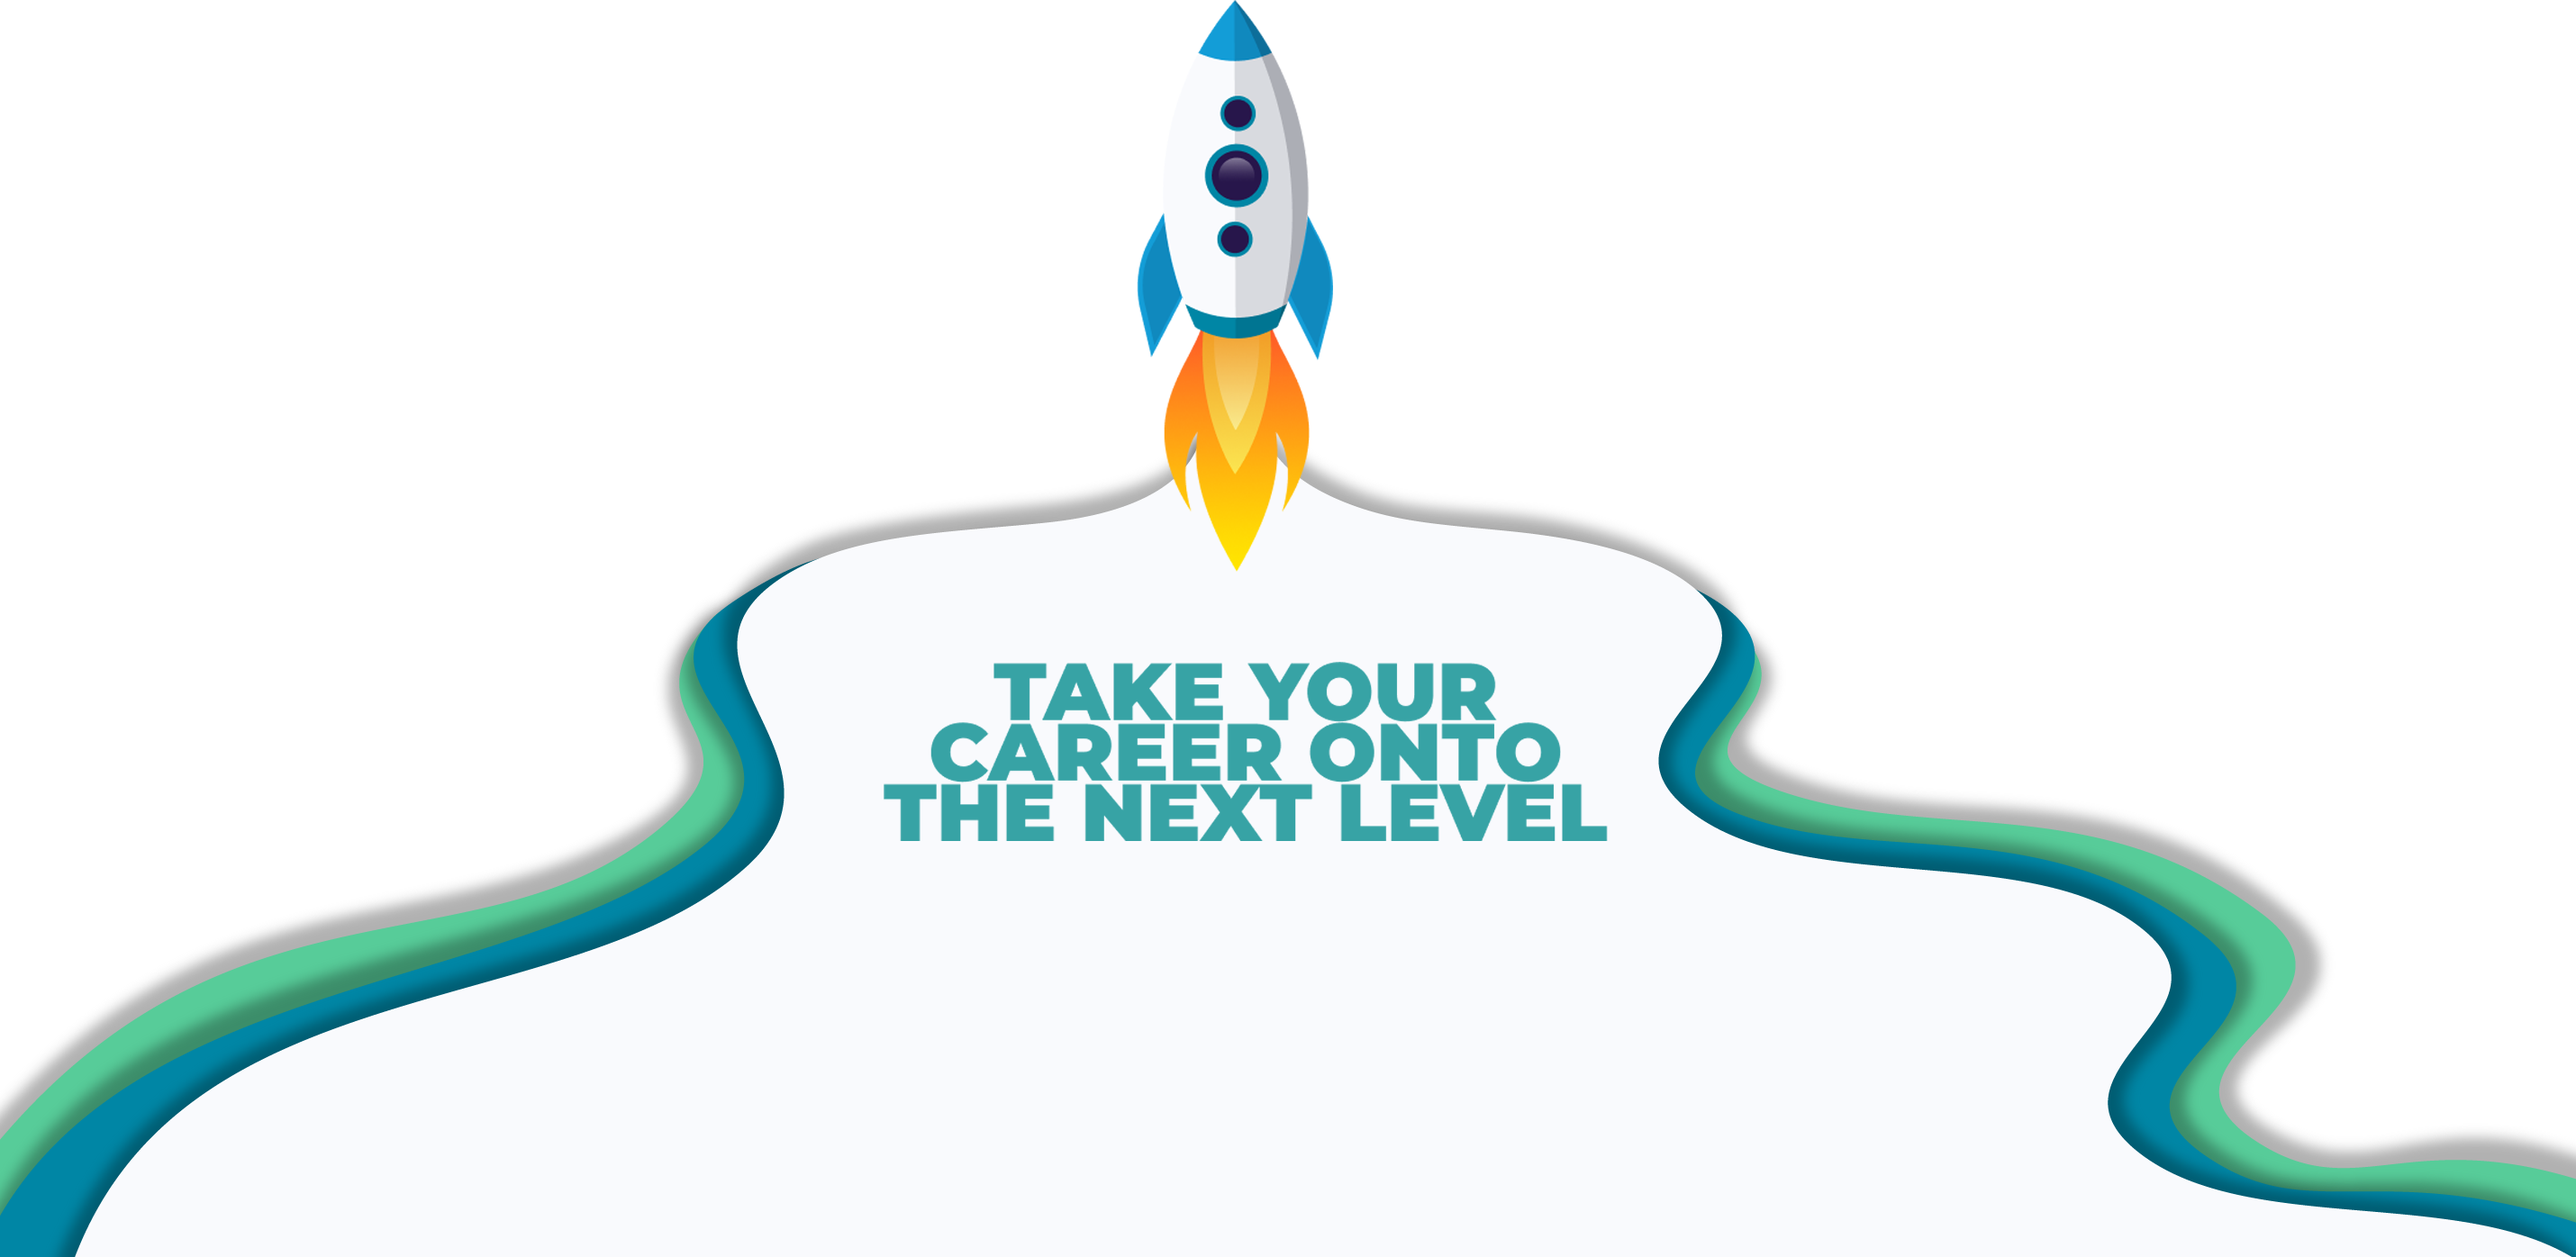
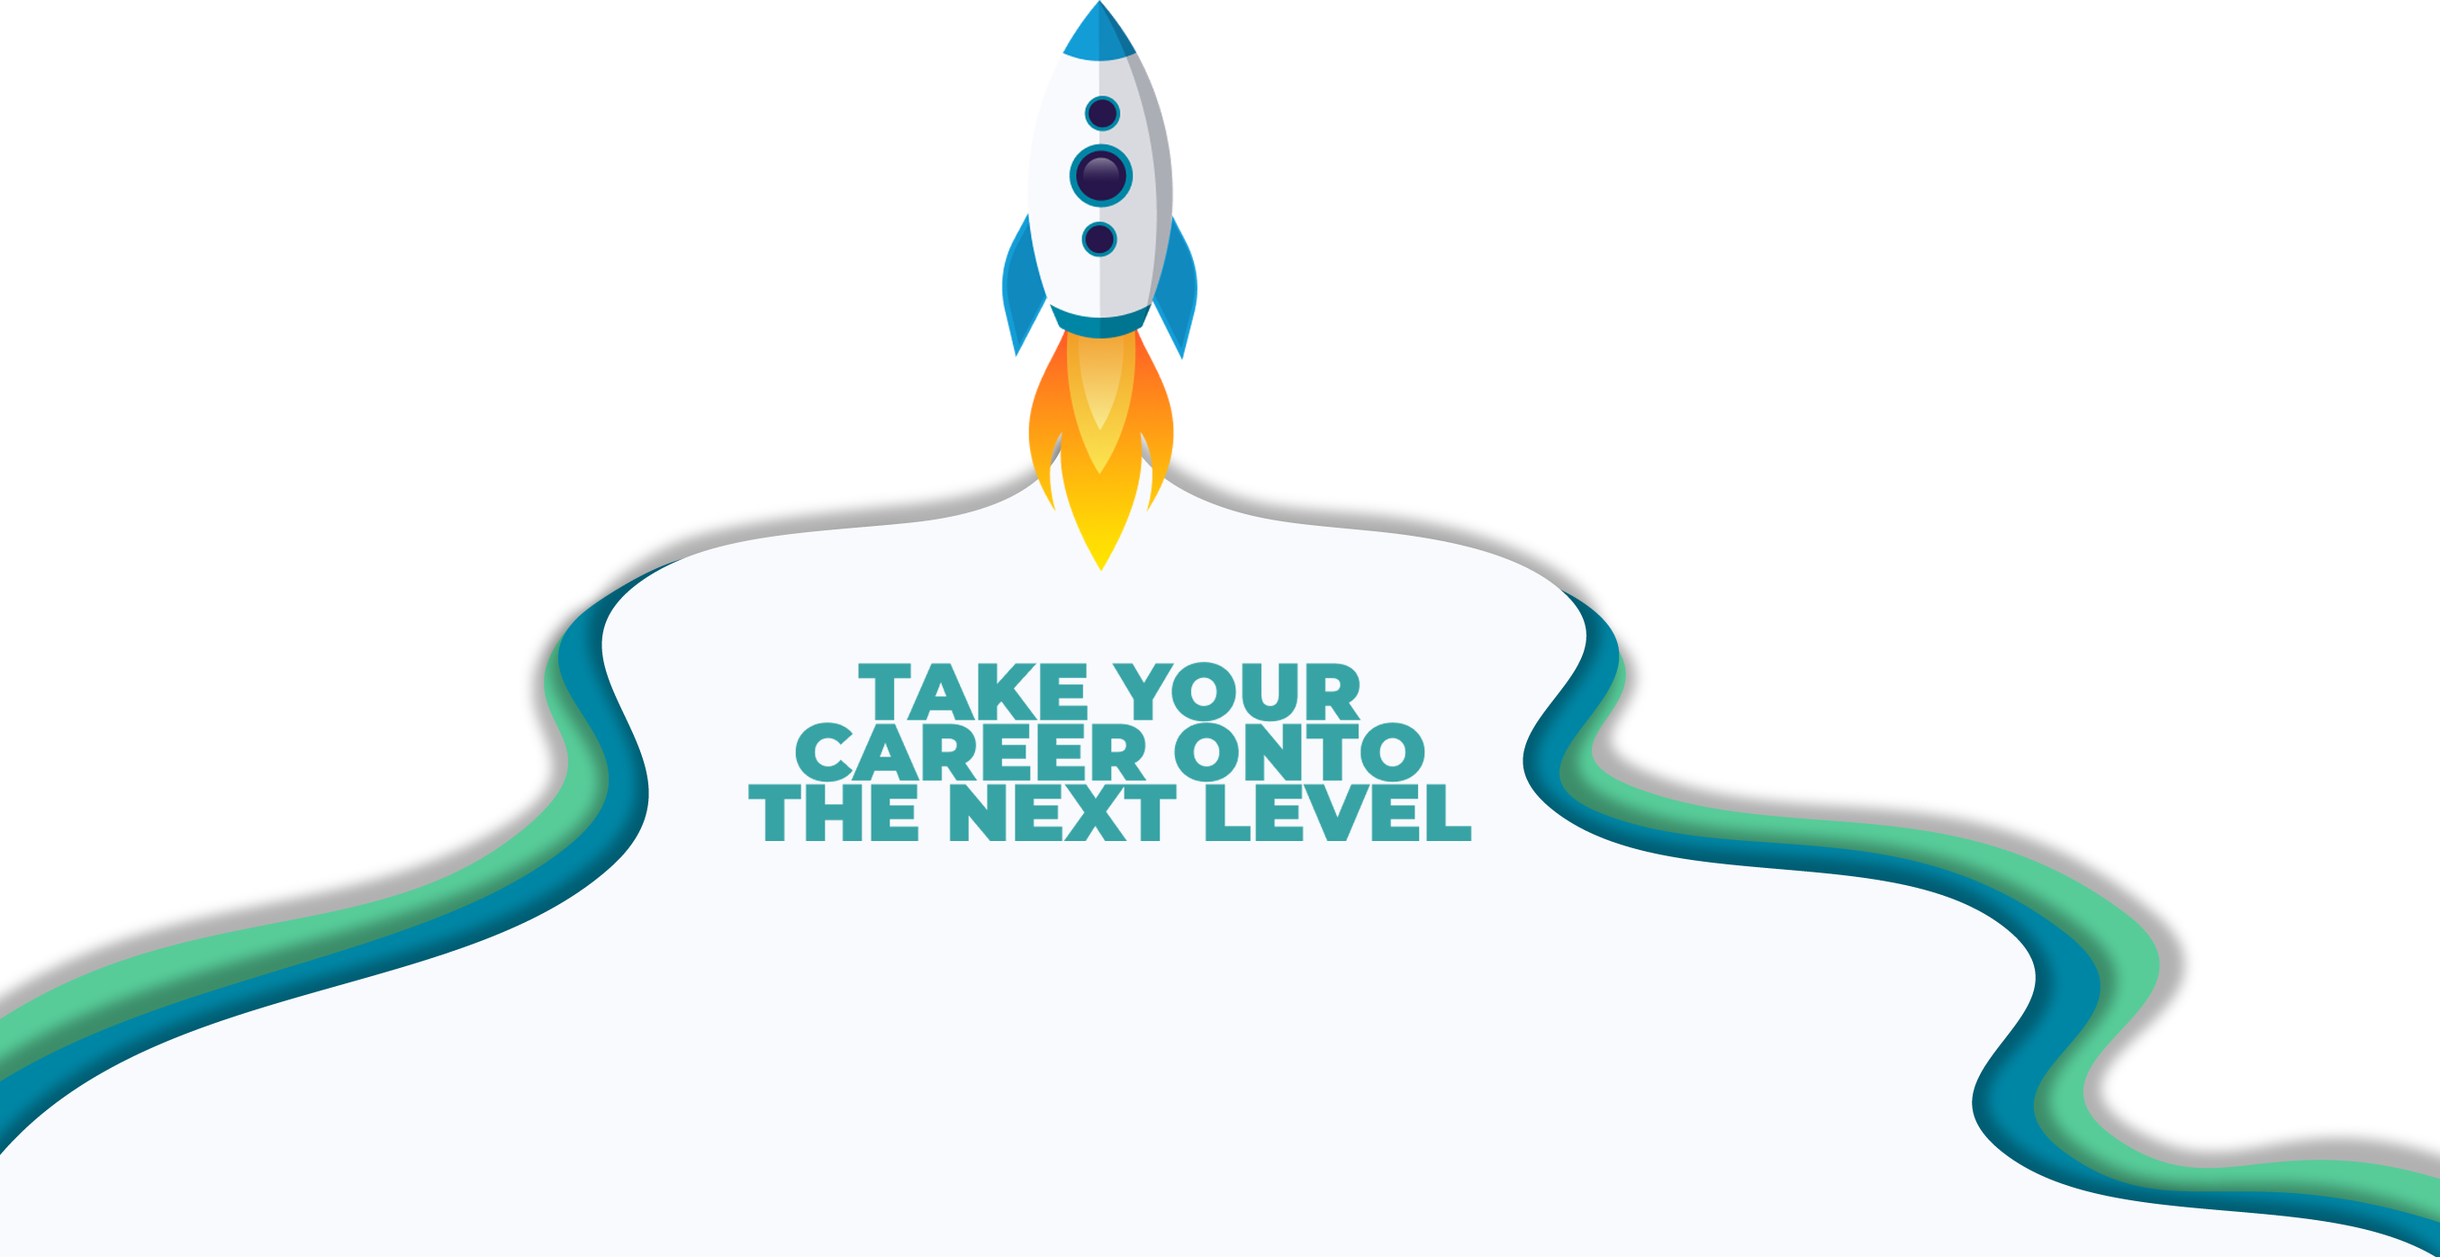
fixes

Changed region(s): [[0.0, 0.0, 0.8989, 1.0]]

diff --git a/index.html b/index.html
@@ -129,7 +129,8 @@
             <div class="row HomeWhite">
                 <div class="col-12 col-md-6 divIzquierda" data-aos="fade-right" data-aos-duration="1000">
                 
-                   <img src="source/img/PremiumSImg.png" alt="">
+                   <img src="source/img/PremiumSImg.png" alt="" class="d-none d-lg-block">
+                   <img src="source/img/PremiumSImg2.png" alt="" class="d-lg-none ">
                     
                 </div>
                 <div class="col-12 col-md-6 centerHome" data-aos="fade-up" data-aos-duration="1000">
@@ -156,8 +157,8 @@
                 </div>
                 <div class="col-12 col-md-6 divDerecha" data-aos="fade-up" data-aos-duration="1000">
                 
-                  <img src="source/img/MoneyImg.png" alt="">
-                  
+                  <img src="source/img/MoneyImg.png" alt="" class="d-none d-lg-block ">
+                  <img src="source/img/MoneyImg.png2" alt="" class="d-lg-none ">
               </div>
               
             
@@ -168,8 +169,8 @@
             <div class="row HomeWhite">
                 <div class="col-12 col-md-6 divIzquierda" data-aos="fade-right" data-aos-duration="1000">
                 
-                   <img src="source/img/DiscountsImg.png" alt="">
-                    
+                   <img src="source/img/DiscountsImg.png" alt=""  class="d-none d-lg-block ">
+                   <img src="source/img/DiscountsImg2.png" alt="" class="d-lg-none ">
                 </div>
                 <div class="col-12 col-md-6 centerHome" data-aos="fade-up" data-aos-duration="1000">
                     
@@ -193,8 +194,8 @@
                 </div>
                   <div class="col-12 col-md-6 divDerecha" data-aos="fade-up" data-aos-duration="1000">
                   
-                    <img src="source/img/InsaforpIMG.png" alt="">
-                    
+                    <img src="source/img/InsaforpIMG.png" alt="" class="d-none d-lg-block ">
+                    <img src="source/img/InsaforpIMG2.png" alt="" class="d-lg-none">
                 </div>
             </div>
         </div>
@@ -204,8 +205,8 @@
             <div class="row">
                 <div class="col-12 col-md-6 lastLogo" data-aos="fade-right" data-aos-duration="1000">
                 
-                   <img src="source/img/Elemento Logo_Mesa de trabajo 1 1.png" alt="">
-                    
+                   <img src="source/img/Elemento Logo_Mesa de trabajo 1 1.png" alt="" class="d-none d-lg-block ">
+                   <img src="source/img/Elemento Logo_Mesa de trabajo 1.png" alt="" class="d-lg-none">
                 </div>
                 <div class="col-12 col-md-6 lastSection align-center" >
                     <div class="row">

diff --git a/ApplyNow.html b/ApplyNow.html
@@ -83,7 +83,8 @@
         <div class="container my-20">
             <div class="row">
                 <div class="col-sm-12 col-md-6">
-                    <img src="./source/img/applyGirlCircle.png" alt="" class="applyImgcircle">
+                    <img src="./source/img/applyGirlCircle.png" alt="" class="d-none d-lg-block  applyImgcircle">
+                    <img src="./source/img/applyGirlCircle.png" alt="" class="d-lg-none applyImgcircle ">
                     <!--<svg width="700" height="900" viewBox="0 0 730 881" fill="none" class="svgApply">
                         <defs>
                             <linearGradient id="paint0_linear_78_135" x1="-151.001" y1="440.496" x2="729.993" y2="440.496" gradientUnits="userSpaceOnUse">
